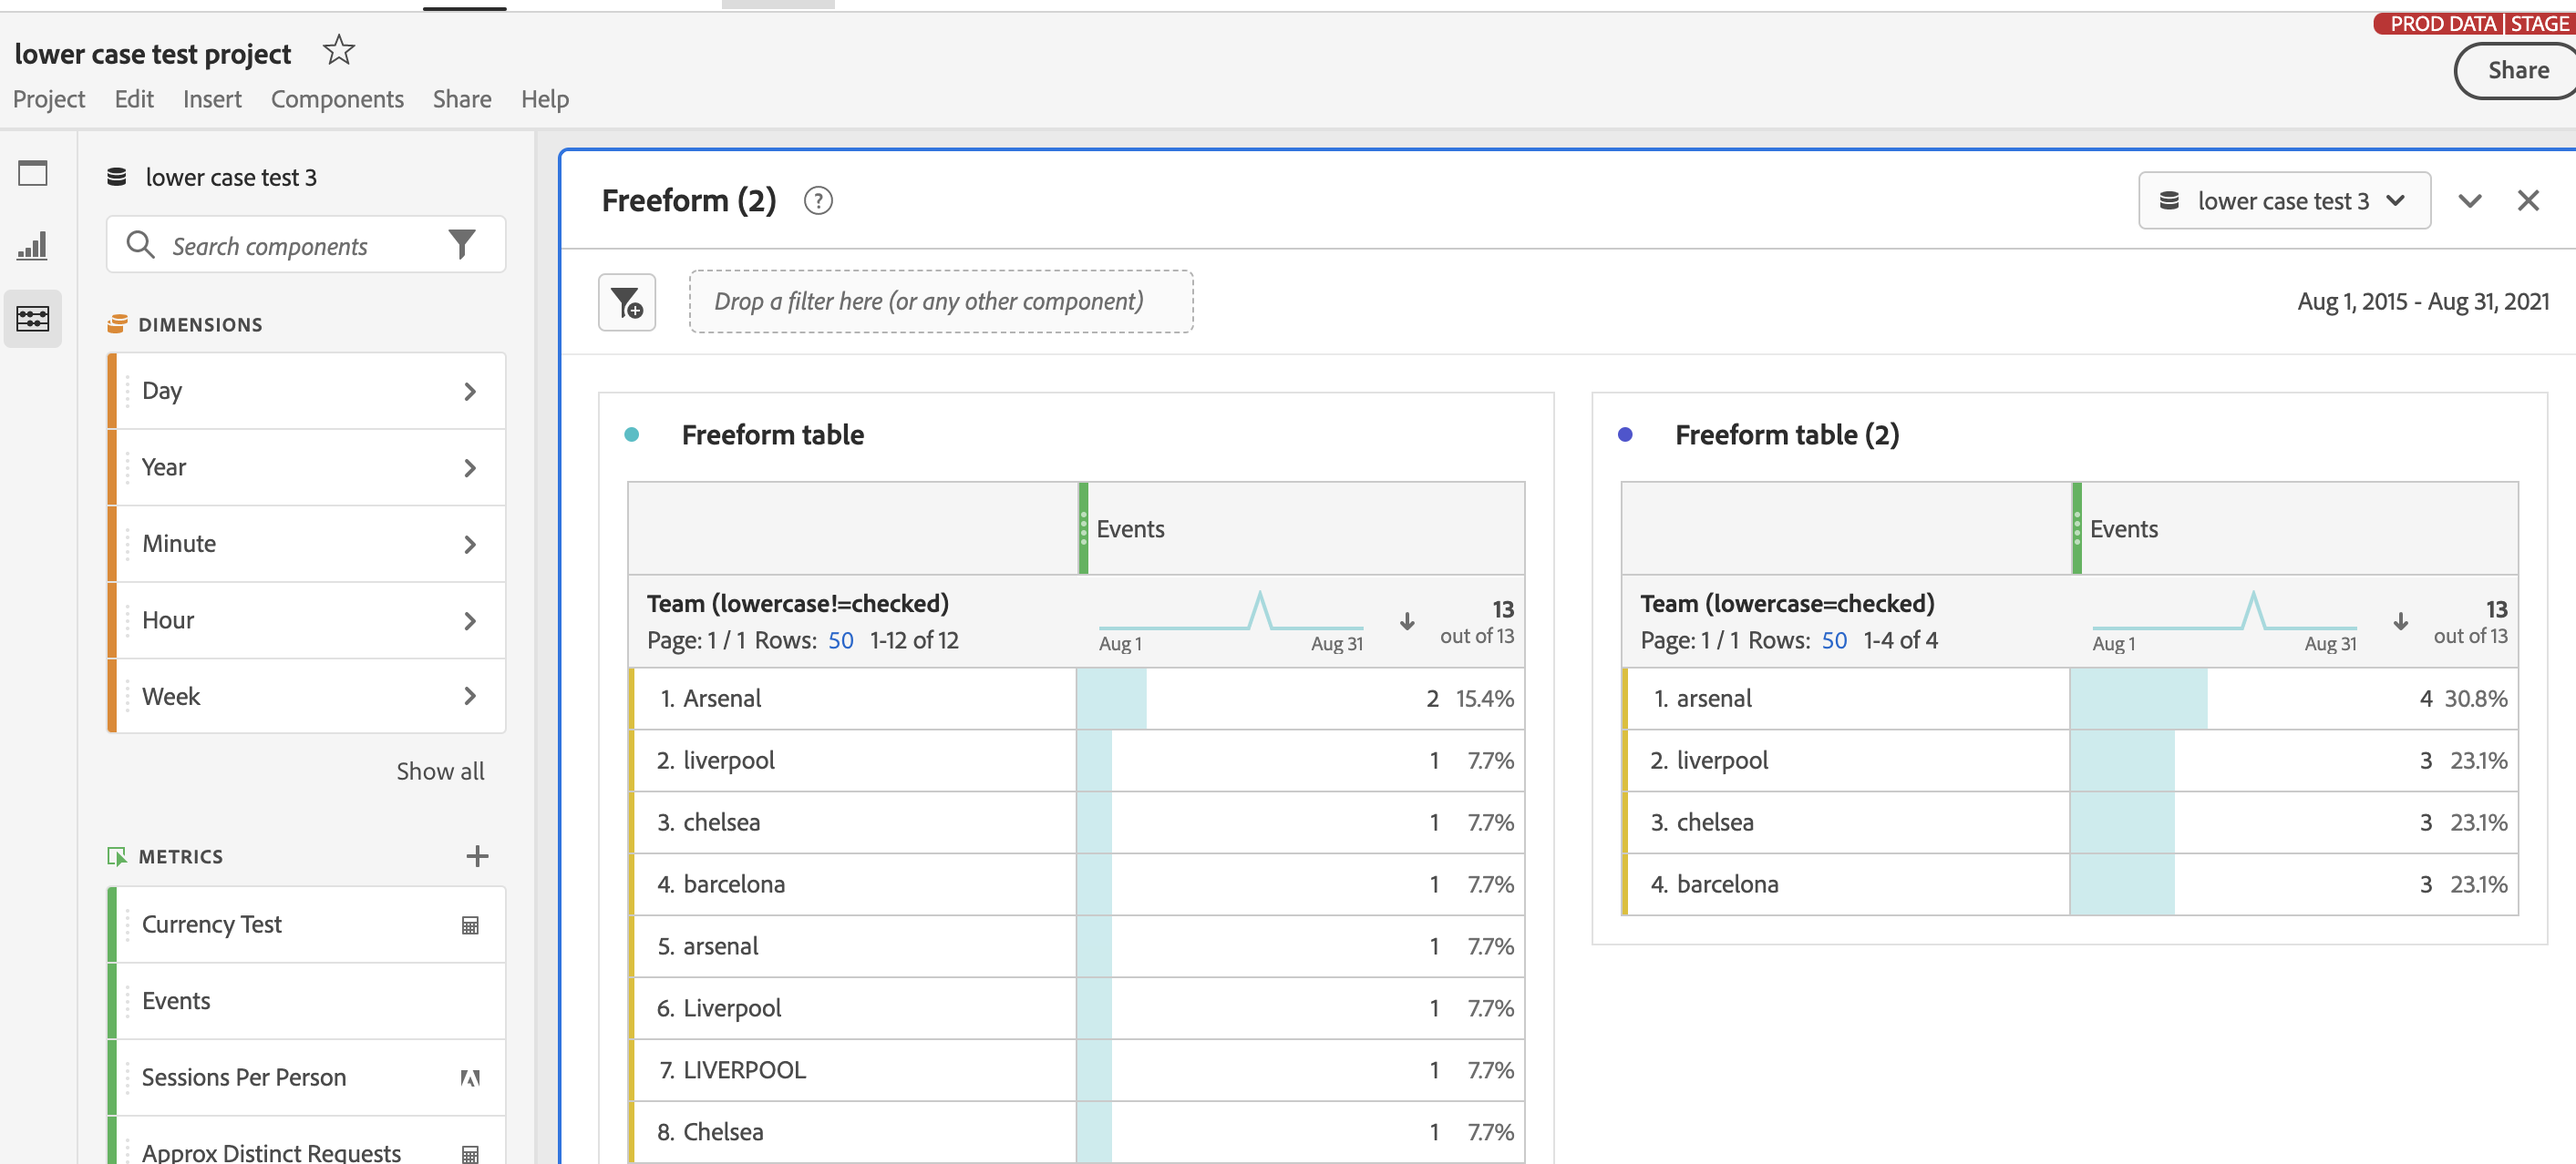
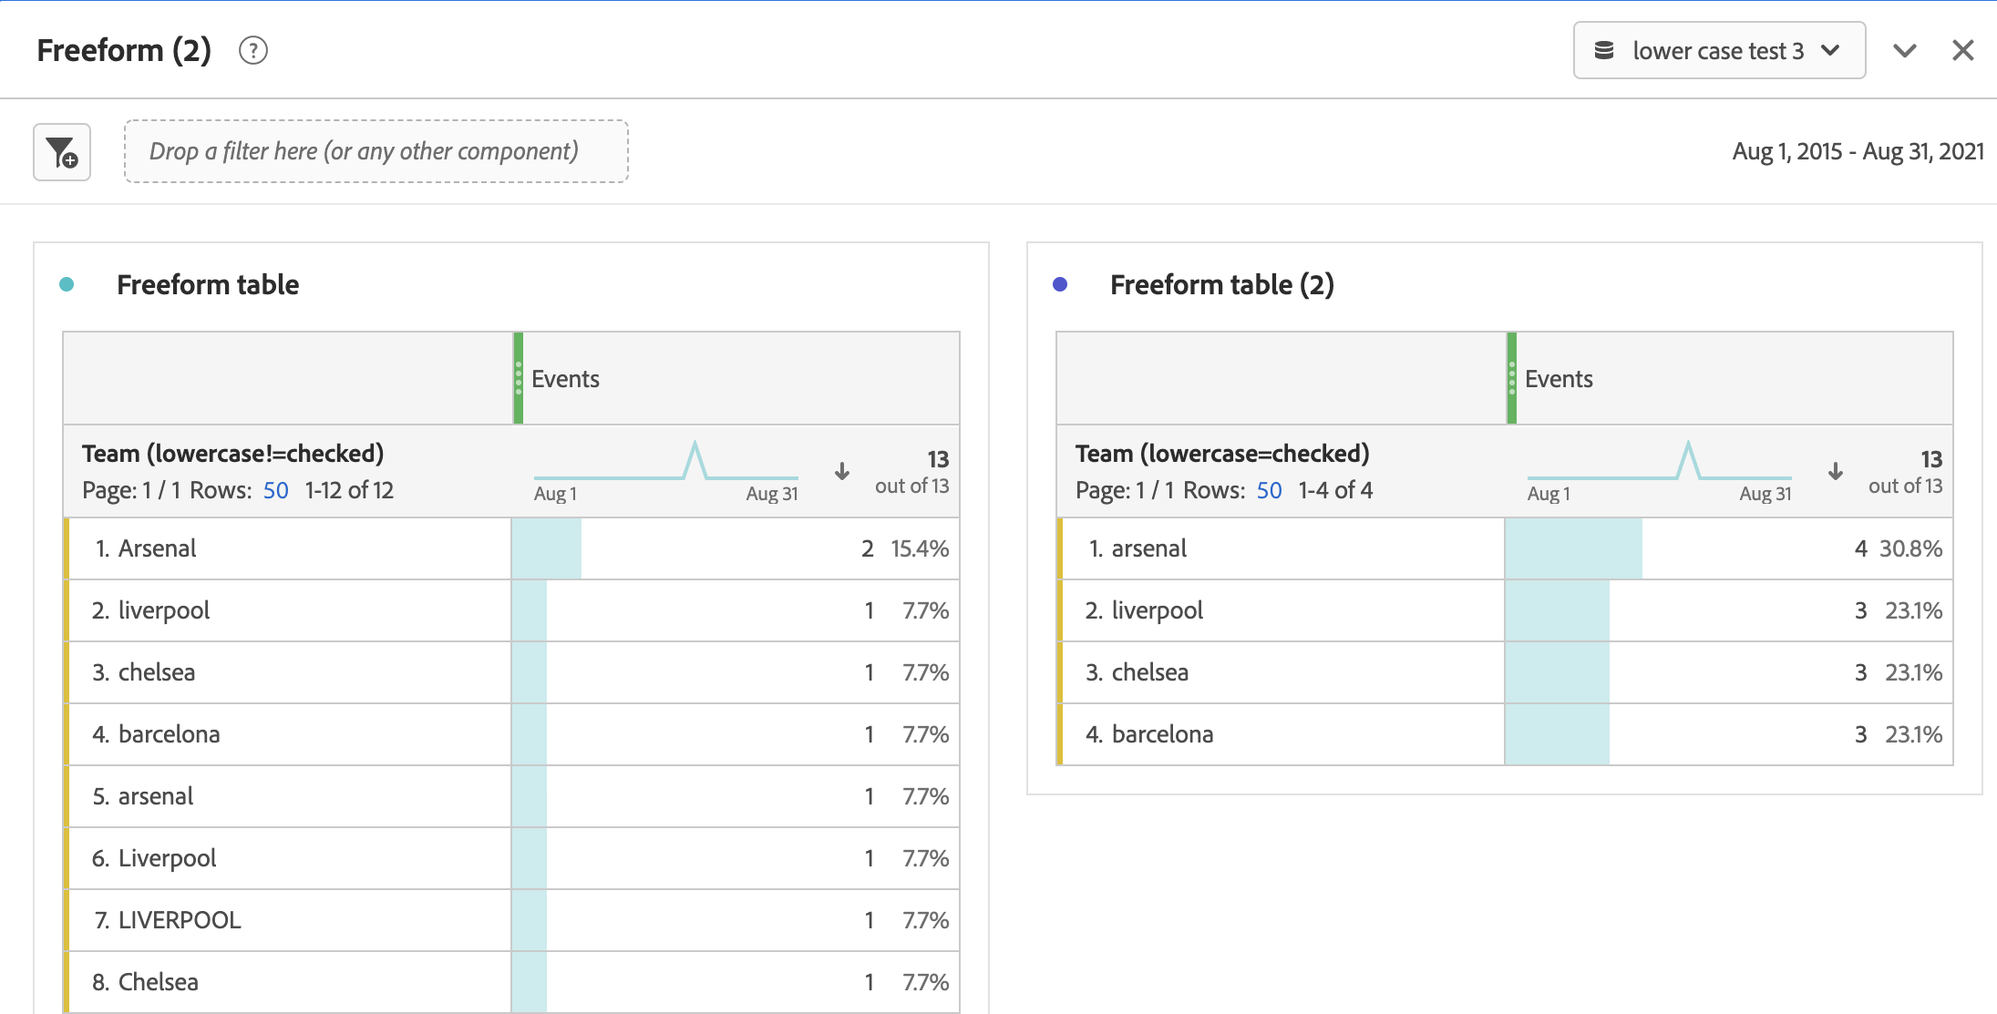
fixes to case-sensitivity

diff --git a/help/data-views/create-dataview.md b/help/data-views/create-dataview.md
@@ -119,7 +119,7 @@ Lets you specify how a metric should behave in reporting.
 | --- | --- |
 | [!UICONTROL Count values] | For Boolean metrics only, this setting allows you to specify whether you want to [!UICONTROL Count True], [!UICONTROL Count False], or [!UICONTROL Count True or False] as the metric value. The default is [!UICONTROL Count True]. This gives you the actual value of a metric, such as “50” if there was an order value of 50. |
 | [!UICONTROL Count instances] | Lets you specify whether a numeric or date type field used as a metric should count the times it was set rather than the value itself.<br> If you want to add up the instances of a numeric field and want to simply add up the number of times a field was *set* rather than the actual value inside.<br>This is useful for creating an [!UICONTROL Orders] metric from a [!UICONTROL Revenue] field, for example. If revenue was set, then we want to count 1 single order rather than the numeric revenue amount. |
-| [!UICONTROL Lower case] | *New* - For "string"-type dimensions. This setting lets you control whether Customer Journey Analytics treats dimension values as case sensitive. It allows for de-duplication of rows that have the same value, but a different case. If you check **[!UICONTROL Lower case]**, all instances of a dimension with the same value will be reported as lower case. This screenshot shows what happens if you do **not** check [!UICONTROL Lower case]. Notice how "liverpool", "Liverpool", and "LIVERPOOL" result in three separate line items in reporting:<br>![case-sensitive dimension](assets/case-sens-workspace.png) |
+| [!UICONTROL Lower case] | *New* - For "string"-type dimensions. This setting lets you control whether Customer Journey Analytics treats dimension values as case sensitive. It allows for de-duplication of rows that have the same value, but a different case. If you check **[!UICONTROL Lower case]**, all instances of a dimension with the same value will be reported as lower case. This screenshot shows what happens if you do **not** check [!UICONTROL Lower case] versus if you **do** check the box. In the left table, notice how "liverpool", "Liverpool", and "LIVERPOOL" result in three separate line items in reporting. In the right table, those same values have been de-duplicated and fall under one line item:<br>![case-sensitive dimension](assets/case-sens-workspace.png) |
 
 ### Configure [!UICONTROL No Value Options] settings
 
